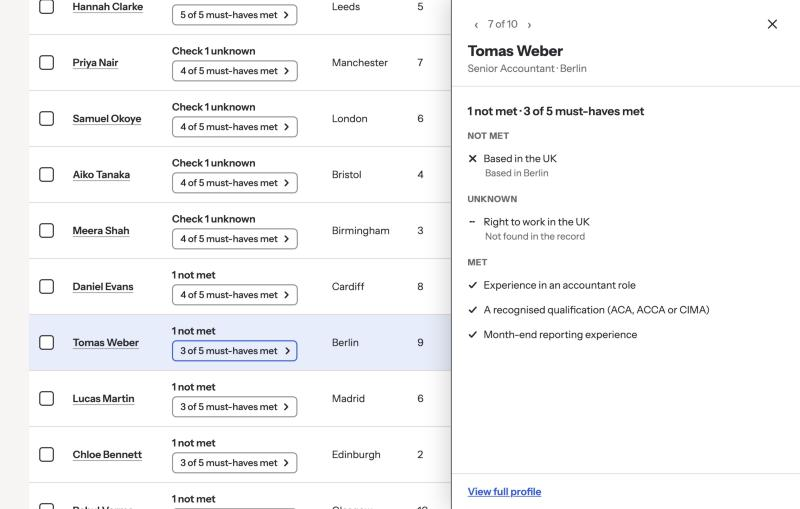
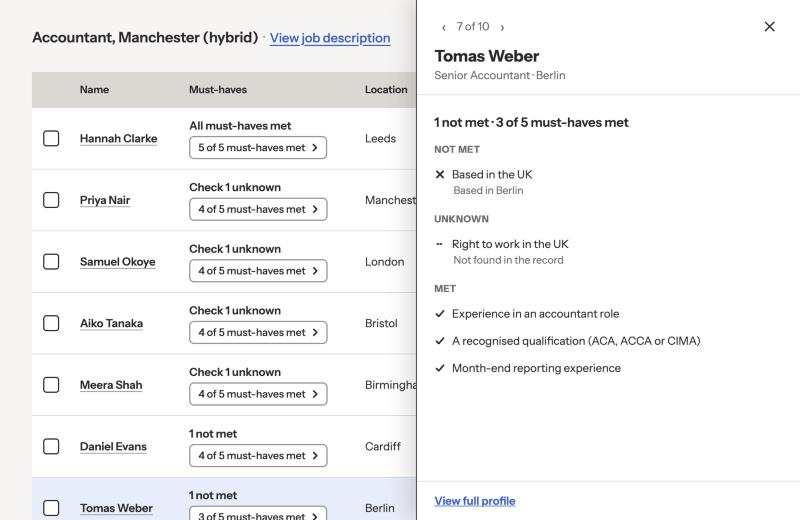
Revert candidate sets; B label rule, count button, drawer states, Done summary

diff --git a/docs/index.html b/docs/index.html
@@ -75,9 +75,8 @@
   .blabel { font-weight: 600; }
   .countbtn { display: inline-flex; align-items: center; gap: 6px; background: #fff; border: 1.5px solid var(--faint); border-radius: 6px; padding: 3px 8px 3px 10px; font-size: 13px; font-weight: 500; }
   .countbtn:hover { border-color: var(--ink); background: var(--page); }
-  .countbtn.on, .countbtn:active { border-color: var(--accent); background: var(--accent-bg); }
-  .countbtn .chev { transition: transform .15s; }
   .countbtn:hover .chev { transform: translateX(2px); }
+  .countbtn .chev { transition: transform .15s; }
 
   /* Variant C: chips */
   .chips { display: flex; flex-wrap: wrap; gap: 6px; }
@@ -129,8 +128,8 @@
   .iconbtn:hover:not(:disabled) { border-color: var(--line); background: var(--page); }
   .iconbtn:disabled { color: var(--bar); cursor: default; }
 
-  .drawer { position: fixed; top: 0; right: 0; height: 100vh; width: 480px; background: var(--surface); box-shadow: -8px 0 28px rgba(0,0,0,.14); border-left: 1px solid var(--ink); z-index: 60; display: flex; flex-direction: column; transform: translateX(100%); visibility: hidden; transition: transform .3s ease-in-out, visibility 0s linear .3s; }
-  .drawer.open { transform: translateX(0); visibility: visible; transition-delay: 0s; }
+  .drawer { position: fixed; top: 0; right: 0; height: 100vh; width: 480px; background: var(--surface); box-shadow: -8px 0 28px rgba(0,0,0,.14); border-left: 1px solid var(--ink); z-index: 60; display: flex; flex-direction: column; transform: translateX(100%); transition: transform .3s ease-in-out; }
+  .drawer.open { transform: translateX(0); }
   .d-head { padding: 18px 22px 14px; border-bottom: 1px solid var(--line); }
   .d-top { display: flex; align-items: center; justify-content: space-between; margin-bottom: 8px; }
   .stepper { display: inline-flex; align-items: center; gap: 4px; color: var(--muted); }
@@ -154,7 +153,7 @@
   .ask { margin-top: 10px; background: #fff; border: 1.5px solid var(--ink); border-radius: 6px; padding: 7px 14px; font-weight: 600; }
   .ask:hover:not(:disabled) { background: var(--page); }
   .ask:disabled { border-color: var(--faint); color: var(--muted); cursor: default; }
-  .asked { margin-top: 10px; color: var(--muted); display: flex; gap: 6px; align-items: center; }
+  .asked { margin-top: 10px; color: var(--muted); }
   .cap { margin: 6px 0 0; font-size: 12px; color: var(--muted); }
   .why { color: var(--muted); font-size: 13px; margin: 0 0 0 24px; padding-bottom: 6px; }
   .full { display: inline-block; font-weight: 600; font-size: 14px; }
@@ -202,9 +201,8 @@
 
 <div class="float" id="tip" role="tooltip"></div>
 <div class="float" id="pop" role="dialog" aria-label="Must-have breakdown"></div>
-<aside class="drawer" id="drawer" role="dialog" aria-hidden="true" aria-label="Candidate detail"></aside>
+<aside class="drawer" id="drawer" aria-hidden="true" aria-label="Candidate detail"></aside>
 
-<script src="data.js"></script>
 <script>
 (function () {
   var CRIT = [
@@ -216,14 +214,77 @@
   ];
   var STATE_LABEL = { met: 'Met', not: 'Not met', unk: 'Unknown' };
 
-  var params = new URLSearchParams(location.search);
-  var V = (params.get('v') || 'a').toLowerCase();
+  // ev: [status, source, text with [[keyword]] highlight]. Unknown has no text.
+  // Fit and confidence are for variant A only; all other fields are shared.
+  var C = [
+    { n: 'Priya Nair', loc: 'Manchester', yrs: 7, title: 'Senior Accountant', upd: '2 weeks ago', fit: 94, conf: 71, ev: {
+      role: ['met', 'CV · Experience', 'Senior [[Accountant]], Northern Freight Ltd, 2019 to present'],
+      qual: ['met', 'CV · Qualifications', '[[ACCA]] qualified, 2018'],
+      month: ['met', 'CV · Experience', 'Owned [[month-end]] close and reporting for three entities'],
+      uk: ['met', 'Profile · Location', '[[Manchester]], United Kingdom'],
+      rtw: ['unk'] } },
+    { n: 'Tomas Weber', loc: 'Berlin', yrs: 9, title: 'Senior Accountant', upd: '1 month ago', fit: 92, conf: 68, ev: {
+      role: ['met', 'CV · Experience', 'Senior [[Accountant]], Brandt Logistik GmbH, 2017 to present'],
+      qual: ['met', 'CV · Qualifications', '[[ACCA]] qualified, 2016'],
+      month: ['met', 'CV · Experience', 'Prepared [[month-end]] reporting packs for group finance'],
+      uk: ['not', 'Profile · Location', '[[Berlin]], Germany. No UK address on CV'],
+      rtw: ['unk'] } },
+    { n: 'Hannah Clarke', loc: 'Leeds', yrs: 5, title: 'Financial Accountant', upd: '1 month ago', fit: 91, conf: 88, ev: {
+      role: ['met', 'CV · Experience', '[[Financial Accountant]], Calder Foods, 2020 to present'],
+      qual: ['met', 'CV · Qualifications', '[[CIMA]] qualified, 2020'],
+      month: ['met', 'CV · Experience', 'Delivered [[month-end]] reporting within five working days'],
+      uk: ['met', 'Profile · Location', '[[Leeds]], United Kingdom'],
+      rtw: ['met', 'CV · Personal details', '[[British citizen]]'] } },
+    { n: 'Samuel Okoye', loc: 'London', yrs: 6, title: 'Management Accountant', upd: '3 weeks ago', fit: 89, conf: 76, ev: {
+      role: ['met', 'CV · Experience', '[[Management Accountant]], Harlow Retail, 2019 to present'],
+      qual: ['met', 'CV · Qualifications', '[[ACA]] qualified, 2019'],
+      month: ['unk'],
+      uk: ['met', 'Profile · Location', '[[London]], United Kingdom'],
+      rtw: ['met', 'CV · Personal details', 'Right to work: [[Settled status]]'] } },
+    { n: 'Aiko Tanaka', loc: 'Bristol', yrs: 4, title: 'Accountant', upd: '2 months ago', fit: 86, conf: 72, ev: {
+      role: ['met', 'CV · Experience', '[[Accountant]], Severn Packaging, 2021 to present'],
+      qual: ['met', 'CV · Qualifications', '[[ACCA]] qualified, 2021'],
+      month: ['met', 'CV · Experience', 'Responsible for [[month-end]] journals and reconciliations'],
+      uk: ['met', 'Profile · Location', '[[Bristol]], United Kingdom'],
+      rtw: ['unk'] } },
+    { n: 'Daniel Evans', loc: 'Cardiff', yrs: 8, title: 'Bookkeeper', upd: '3 years ago', fit: 83, conf: 61, ev: {
+      role: ['not', 'CV · Experience', '[[Bookkeeper]], Evans & Co, 2016 to 2023. No accountant role listed'],
+      qual: ['met', 'CV · Qualifications', '[[CIMA]] qualified, 2017'],
+      month: ['met', 'CV · Experience', 'Prepared [[month-end]] trial balance for small clients'],
+      uk: ['met', 'Profile · Location', '[[Cardiff]], United Kingdom'],
+      rtw: ['met', 'CV · Personal details', '[[British citizen]]'] } },
+    { n: 'Meera Shah', loc: 'Birmingham', yrs: 3, title: 'Accountant', upd: '1 month ago', fit: 80, conf: 74, ev: {
+      role: ['met', 'CV · Experience', '[[Accountant]], Midlands Print, 2022 to present'],
+      qual: ['met', 'CV · Qualifications', '[[ACA]] qualified, 2022'],
+      month: ['unk'],
+      uk: ['met', 'Profile · Location', '[[Birmingham]], United Kingdom'],
+      rtw: ['met', 'CV · Personal details', 'Right to work: [[Indefinite leave to remain]]'] } },
+    { n: 'Lucas Martin', loc: 'Madrid', yrs: 6, title: 'Accountant', upd: '2 months ago', fit: 78, conf: 66, ev: {
+      role: ['met', 'CV · Experience', '[[Accountant]], Iberia Textiles SL, 2019 to present'],
+      qual: ['met', 'CV · Qualifications', '[[ACCA]] qualified, 2018'],
+      month: ['met', 'CV · Experience', 'Ran [[month-end]] close for two subsidiaries'],
+      uk: ['not', 'Profile · Location', '[[Madrid]], Spain. No UK address on CV'],
+      rtw: ['unk'] } },
+    { n: 'Chloe Bennett', loc: 'Edinburgh', yrs: 2, title: 'Junior Accountant', upd: '1 month ago', fit: 70, conf: 55, ev: {
+      role: ['met', 'CV · Experience', '[[Junior Accountant]], Forth Estates, 2023 to present'],
+      qual: ['unk'],
+      month: ['not', 'CV · Experience', 'Duties listed are [[accounts payable]] and expenses. No month-end reporting'],
+      uk: ['met', 'Profile · Location', '[[Edinburgh]], United Kingdom'],
+      rtw: ['met', 'CV · Personal details', '[[British citizen]]'] } },
+    { n: 'Rahul Verma', loc: 'Glasgow', yrs: 10, title: 'Payroll Officer', upd: '4 months ago', fit: 64, conf: 52, ev: {
+      role: ['not', 'CV · Experience', '[[Payroll Officer]], Clyde Services, 2015 to present. No accountant role listed'],
+      qual: ['met', 'CV · Qualifications', '[[CIMA]] qualified, 2014'],
+      month: ['unk'],
+      uk: ['met', 'Profile · Location', '[[Glasgow]], United Kingdom'],
+      rtw: ['met', 'CV · Personal details', '[[British citizen]]'] } }
+  ];
+  var ORDER_BC = ['Hannah Clarke', 'Priya Nair', 'Samuel Okoye', 'Aiko Tanaka', 'Meera Shah', 'Daniel Evans', 'Tomas Weber', 'Lucas Martin', 'Chloe Bennett', 'Rahul Verma'];
+
+  var q = new URLSearchParams(location.search).get('v');
+  var V = (q || 'a').toLowerCase();
   if (['a', 'b', 'c'].indexOf(V) < 0) V = 'a';
-  var SET = params.get('set');
-  if (!window.SETS[SET]) SET = { a: 1, b: 2, c: 3 }[V];
-  var C = window.SETS[SET];
-  var rows = V === 'a' ? C.slice() : window.BC_ORDER.map(function (i) { return C[i]; });
-  var T0 = Date.now();
+
+  var rows = V === 'a' ? C.slice() : ORDER_BC.map(function (n) { return C.filter(function (c) { return c.n === n; })[0]; });
 
   // ---- derived values -------------------------------------------------
   function counts(c) {
@@ -236,6 +297,10 @@
     if (k.not === 0 && k.unk === 0) return 'All must-haves met';
     if (k.not === 0) return 'Check ' + k.unk + ' unknown';
     return k.not + ' not met';
+  }
+  // Reason shown in B's drawer for a not-met must-have (from the record).
+  function whyNot(c, k) {
+    return { role: 'Current role: ' + c.title, uk: 'Based in ' + c.loc, month: 'No month-end reporting in the record', qual: 'No recognised qualification in the record', rtw: 'No right to work in the record' }[k];
   }
   function bandA(f) { return f >= 90 ? 'Excellent fit' : f >= 80 ? 'Strong fit' : f >= 70 ? 'Good fit' : 'Partial fit'; }
 
@@ -289,7 +354,7 @@
   }).join('');
 
   // ---- shortlist ------------------------------------------------------
-  var picked = [];
+  var picked = [], T0 = Date.now();
   var notice = document.getElementById('notice');
   function showNotice(msg, warn) {
     notice.textContent = msg; notice.className = 'notice show' + (warn ? ' warn' : '');
@@ -362,15 +427,9 @@
   window.addEventListener('scroll', function () { hideTip(); hidePop(); }, true);
 
   // ---- drawer ---------------------------------------------------------
-  var drawer = document.getElementById('drawer'), trigger = null, mode = null, cur = -1, asked = {}, focusK = null;
+  var drawer = document.getElementById('drawer'), mode = null, cur = -1, asked = {}, focusK = null;
   function bars() { return '<div class="gbar" style="width:96%"></div><div class="gbar" style="width:82%"></div>'; }
-  var RANK = { not: 0, unk: 1, met: 2 };
-  function sortedCrit(c) {
-    return CRIT.map(function (x, i) { return { x: x, i: i }; }).sort(function (a, b) {
-      return (RANK[c.ev[a.x.k][0]] - RANK[c.ev[b.x.k][0]]) || (a.i - b.i);
-    }).map(function (o) { return o.x; });
-  }
-  var capShown = false;
+  var RANK = { not: 0, unk: 1, met: 2 }, capShown = false;
   function critBlock(c, x) {
     var e = c.ev[x.k], st = e[0], key = c.n + x.k;
     var h = '<div class="crit' + (focusK === x.k ? ' focus' : '') + '" data-k="' + x.k + '"><div class="crit-h">' + ic(st, 16) + '<span>' + esc(x.full) + '</span><span class="state">' + STATE_LABEL[st] + '</span></div>';
@@ -389,14 +448,14 @@
       '<h2 class="d-name">' + esc(c.n) + '</h2><div class="d-sub">' + esc(c.title) + ' · ' + esc(c.loc) + '</div></div>';
     var body;
     capShown = false;
-    if (V === 'c') body = sortedCrit(c).map(function (x) { return critBlock(c, x); }).join('');
+    if (V === 'c') body = CRIT.map(function (x, i) { return { x: x, i: i }; }).sort(function (p, q) { return (RANK[c.ev[p.x.k][0]] - RANK[c.ev[q.x.k][0]]) || (p.i - q.i); }).map(function (o) { return critBlock(c, o.x); }).join('');
     else if (mode === 'list') {
       body = '<div class="crit" style="border:0;padding-bottom:4px"><div class="crit-h" style="font-size:16px">' + esc(bandB(c)) + ' · ' + counts(c).met + ' of 5 must-haves met</div></div>';
       [['not', 'Not met'], ['unk', 'Unknown'], ['met', 'Met']].forEach(function (t) {
         var items = CRIT.filter(function (x) { return c.ev[x.k][0] === t[0]; });
         if (!items.length) return;
         body += '<div class="pop-sec"><h4>' + t[1] + '</h4>' + items.map(function (x) {
-          var note = t[0] === 'not' ? c.ev.why[x.k] : t[0] === 'unk' ? 'Not found in the record' : '';
+          var note = t[0] === 'not' ? whyNot(c, x.k) : t[0] === 'unk' ? 'Not found in the record' : '';
           return '<div class="pop-row" style="padding:7px 0 ' + (note ? '0' : '7px') + '">' + ic(t[0], 16) + '<span>' + esc(x.full) + '</span></div>' + (note ? '<p class="why">' + esc(note) + '</p>' : '');
         }).join('') + '</div>';
       });
@@ -406,38 +465,28 @@
     var f = drawer.querySelector('.crit.focus');
     if (f) f.scrollIntoView({ block: 'nearest' });
   }
-  function openDrawer(i, k, m, trig, focusId) {
-    cur = i; focusK = k || null; mode = m || null; if (trig) trigger = trig; hideTip(); hidePop();
+  function openDrawer(i, k, m) {
+    cur = i; focusK = k || null; mode = m || null; hideTip(); hidePop();
     renderDrawer(); drawer.classList.add('open'); drawer.setAttribute('aria-hidden', 'false');
     document.querySelectorAll('tr.row').forEach(function (r) { r.classList.toggle('sel', +r.dataset.i === i); });
     document.querySelectorAll('.chip').forEach(function (b) { b.classList.toggle('on', +b.dataset.i === i && b.dataset.k === focusK); });
-    document.querySelectorAll('.countbtn').forEach(function (b) { b.classList.toggle('on', +b.dataset.i === i); });
-    var f = focusId && drawer.querySelector('#' + focusId);
-    if (!f || f.disabled) f = drawer.querySelector('#dclose');
-    f.focus({ preventScroll: true });
-  }
-  function rowTrigger(i) {
-    var r = document.querySelector('tr.row[data-i="' + i + '"]');
-    return r.querySelector(mode === 'list' ? '.countbtn' : '.namebtn');
   }
   function closeDrawer() {
-    var wasOpen = drawer.classList.contains('open');
     drawer.classList.remove('open'); drawer.setAttribute('aria-hidden', 'true'); cur = -1;
     document.querySelectorAll('tr.row.sel').forEach(function (r) { r.classList.remove('sel'); });
-    document.querySelectorAll('.chip.on, .countbtn.on').forEach(function (b) { b.classList.remove('on'); });
-    if (wasOpen && trigger) trigger.focus();
+    document.querySelectorAll('.chip.on').forEach(function (b) { b.classList.remove('on'); });
   }
   document.getElementById('tbody').addEventListener('click', function (e) {
     var n = e.target.closest('.namebtn'), ch = e.target.closest('.chip'), cb = e.target.closest('.countbtn');
-    if (cb) openDrawer(+cb.dataset.i, null, 'list', cb);
-    else if (ch) openDrawer(+ch.dataset.i, ch.dataset.k, null, ch);
-    else if (n) openDrawer(+n.dataset.i, null, null, n);
+    if (cb) openDrawer(+cb.dataset.i, null, 'list');
+    else if (ch) openDrawer(+ch.dataset.i, ch.dataset.k);
+    else if (n) openDrawer(+n.dataset.i, null);
   });
   drawer.addEventListener('click', function (e) {
     var t = e.target;
     if (t.closest('#dclose')) closeDrawer();
-    else if (t.closest('#prev') && cur > 0) { openDrawer(cur - 1, null, mode, rowTrigger(cur - 1), 'prev'); }
-    else if (t.closest('#next') && cur < rows.length - 1) { openDrawer(cur + 1, null, mode, rowTrigger(cur + 1), 'next'); }
+    else if (t.closest('#prev') && cur > 0) openDrawer(cur - 1, null, mode);
+    else if (t.closest('#next') && cur < rows.length - 1) openDrawer(cur + 1, null, mode);
     else if (t.closest('#fullp')) { e.preventDefault(); document.getElementById('soon').hidden = false; }
     else if (t.dataset.ask) { asked[t.dataset.ask] = true; var m = document.createElement('div'); m.className = 'asked'; m.setAttribute('role', 'status'); m.textContent = 'Request noted for the test'; t.replaceWith(m); }
   });

diff --git a/README.md b/README.md
@@ -5,14 +5,10 @@ One static page, three variants chosen by the address. Fictional data, no networ
 | Task link | Variant | What the participant sees |
 | --- | --- | --- |
 | `?v=a` | A: % fit | Percentage plus band ("Excellent fit"). Hovering (or tabbing to) the fit shows an overlay in the style of Trevor's (intro text with confidence, labelled 0–4 levels with bars, weighted-average arithmetic). Clicking a name opens a plain profile panel. Order: by fit. |
-| `?v=b` | B: Band and count | Band plus "4 of 5 must-haves met". Clicking the band or count opens the drawer with the met / not met / unknown list, with no evidence. Same plain profile panel as A. Order: by must-haves. |
+| `?v=b` | B: Band and count | Band plus "4 of 5 must-haves met". The label comes only from the must-have states ("All must-haves met", "Check N unknown", "N not met"). Clicking the count button opens the drawer with Not met / Unknown / Met, a reason for each not met, and no evidence. Same plain profile panel as A. Order: by must-haves. |
 | `?v=c` | C: Criteria and evidence | Five criteria chips per row (filled ✓ met, outlined ✕ not met, dashed – unknown). A chip or name opens a drawer with the source for each criterion, keyword highlighted between grey bars of CV text, "Ask candidate to confirm" on unknowns, a stepper and "View full profile". Order: by must-haves. |
 
 An address with no or an unrecognised `v` shows variant A.
-
-## Candidate sets
-
-`?set=1|2|3` picks one of three invented candidate sets (`docs/data.js`), so a participant who sees all three variants never sees the same ten people twice. If `set` is missing the default is a→1, b→2, c→3. Every set keeps the same criteria pattern per row, so ranks and the three traps line up. Do not show the set or variant anywhere on screen.
 
 ## Shared across all three
 
@@ -24,7 +20,7 @@ An address with no or an unrecognised `v` shows variant A.
 ## Notes
 
 - Variant A's percentages come from a per-candidate 0–4 distribution whose probability-weighted average level ÷ 4 equals the percentage in the plan (checked for all ten). The distributions and confidence figures are invented; swap in Trevor's if you want an exact match.
-- B's label comes only from the must-have states: "All must-haves met", "Check N unknown" (none failed), or "N not met". A's bands: 90+ Excellent, 80–89 Strong, 70–79 Good, below 70 Partial.
+- Bands in B: Excellent = 5 met; Strong = 4 met, none failed; Partial = 4 met, one failed; Weak = 3 or fewer met. A: 90+ Excellent, 80–89 Strong, 70–79 Good, below 70 Partial.
 - Styling reuses the design system's table, badge pill, checkbox and drawer patterns and Instrument Sans, in greyscale with one blue accent. No logo, nav or Popp colours. The page carries `noindex`.
 - Instrument Sans loads from Google Fonts; the page falls back to the system font offline.
 
